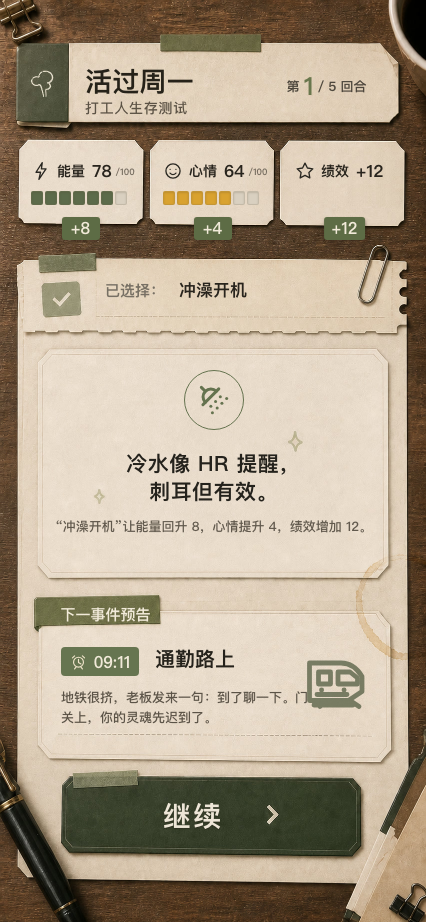
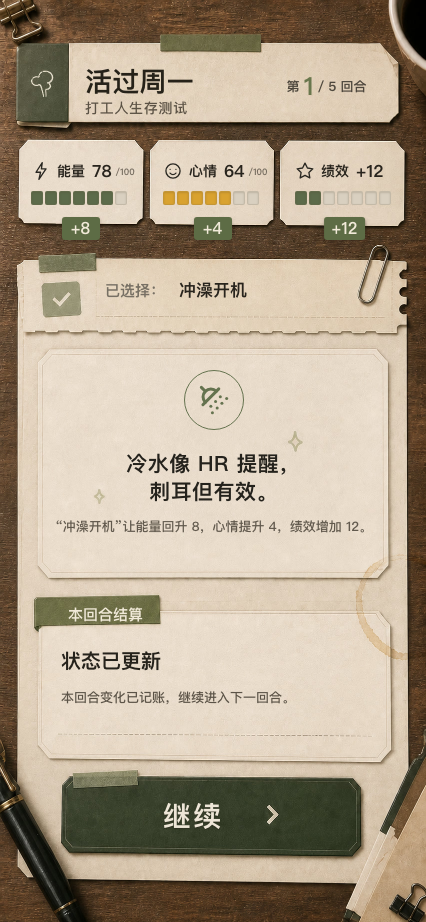
Restore feedback settlement and performance bars

Changed region(s): [[0.1221, 0.6377, 0.6714, 0.7896], [0.7019, 0.6985, 0.8545, 0.7896], [0.7019, 0.1822, 0.7629, 0.243]]

diff --git a/src/components/fixed-feedback/FixedFeedbackScreen.tsx b/src/components/fixed-feedback/FixedFeedbackScreen.tsx
@@ -3,12 +3,12 @@ import { formatPerformance, getStatSegmentCount } from "../../gameViewModels";
 import "../../styles/fixed-feedback.css";
 import { ChoiceIcon } from "../ChoiceIcon";
 import { ViewportAssist } from "../ViewportAssist";
-import type { ChoiceViewModel, EventViewModel, StatViewModel } from "../visualTypes";
+import type { ChoiceViewModel, StatViewModel } from "../visualTypes";
 import { SkinIcon, type SkinIconName } from "../skin/SkinIcon";
 
 export interface FixedFeedbackScreenProps {
   currentRound: number;
-  nextEvent?: EventViewModel;
+  isRunComplete: boolean;
   onContinue?: () => void;
   selectedChoice: ChoiceViewModel;
   stats: StatViewModel[];
@@ -75,7 +75,7 @@ function getFeedbackSummary(selectedChoice: ChoiceViewModel, stats: StatViewMode
 function FixedFeedbackStat({ stat }: { stat: StatViewModel }) {
   const isPerformance = stat.kind === "score";
   const displayValue = getDisplayValue(stat.value);
-  const fillCount = getStatSegmentCount(stat.kind, displayValue);
+  const fillCount = getStatSegmentCount(stat.kind, stat.value);
   const renderedValue = isPerformance ? formatPerformance(stat.value) : displayValue;
   const deltaTone = stat.delta === undefined
     ? ""
@@ -97,13 +97,11 @@ function FixedFeedbackStat({ stat }: { stat: StatViewModel }) {
         <span>{renderedValue}</span>
         {isPerformance ? null : <small>/100</small>}
       </div>
-      {isPerformance ? null : (
-        <div className="ms-fixed-feedback-stat__bar" aria-hidden="true">
-          {Array.from({ length: 7 }, (_, index) => (
-            <span className={index < fillCount ? "is-filled" : undefined} key={index} />
-          ))}
-        </div>
-      )}
+      <div className="ms-fixed-feedback-stat__bar" aria-hidden="true">
+        {Array.from({ length: 7 }, (_, index) => (
+          <span className={index < fillCount ? "is-filled" : undefined} key={index} />
+        ))}
+      </div>
       {stat.delta === undefined ? null : (
         <strong className={`ms-fixed-feedback-stat__delta${deltaTone}`} data-delta-kind={stat.kind}>
           {formatDelta(stat.delta)}
@@ -115,7 +113,7 @@ function FixedFeedbackStat({ stat }: { stat: StatViewModel }) {
 
 export function FixedFeedbackScreen({
   currentRound,
-  nextEvent,
+  isRunComplete,
   onContinue,
   selectedChoice,
   stats,
@@ -127,7 +125,7 @@ export function FixedFeedbackScreen({
   const feedbackLines = splitFeedback(selectedChoice.description);
   const feedbackSummary = getFeedbackSummary(selectedChoice, orderedStats);
   const isFinalRound = currentRound >= totalRounds;
-  const continueLabel = nextEvent ? "继续" : "查看结果";
+  const continueLabel = isRunComplete ? "查看结果" : "继续";
 
   return (
     <section className="ms-fixed-feedback-screen" aria-label="选择反馈">
@@ -173,20 +171,7 @@ export function FixedFeedbackScreen({
         <p aria-atomic="true" aria-live="polite" role="status">{feedbackSummary}</p>
       </article>
 
-      {nextEvent ? (
-        <section className="ms-fixed-feedback-next" aria-label="下一事件预告">
-          <strong className="ms-fixed-feedback-next__label">下一事件预告</strong>
-          <div className="ms-fixed-feedback-next__time">
-            <SkinIcon name="alarm" />
-            <time>{nextEvent.time}</time>
-          </div>
-          <h2>{nextEvent.title}</h2>
-          <p>{nextEvent.body}</p>
-          {nextEvent.visual ? (
-            <SkinIcon className="ms-fixed-feedback-next__visual" name={nextEvent.visual} />
-          ) : null}
-        </section>
-      ) : (
+      {isRunComplete ? (
         <section className="ms-fixed-feedback-next ms-fixed-feedback-next--complete" aria-label="本周结算">
           <strong className="ms-fixed-feedback-next__label">本周结算</strong>
           <div className="ms-fixed-feedback-next__time">
@@ -200,6 +185,12 @@ export function FixedFeedbackScreen({
               : "能量或心情已经见底，先查看本周生存结果。"}
           </p>
           <SkinIcon className="ms-fixed-feedback-next__visual" name="coffee" />
+        </section>
+      ) : (
+        <section className="ms-fixed-feedback-next ms-fixed-feedback-next--round" aria-label="本回合结算">
+          <strong className="ms-fixed-feedback-next__label">本回合结算</strong>
+          <h2>状态已更新</h2>
+          <p>本回合变化已记账，继续进入下一回合。</p>
         </section>
       )}
 

diff --git a/src/components/fixed-round/FixedRoundScreen.tsx b/src/components/fixed-round/FixedRoundScreen.tsx
@@ -38,7 +38,7 @@ interface FixedStatProps {
 function FixedStat({ stat }: FixedStatProps) {
   const isPerformance = stat.kind === "score";
   const displayValue = getDisplayValue(stat.value);
-  const fillCount = getStatSegmentCount(stat.kind, displayValue);
+  const fillCount = getStatSegmentCount(stat.kind, stat.value);
   const renderedValue = isPerformance ? formatPerformance(stat.value) : displayValue;
 
   return (
@@ -53,13 +53,11 @@ function FixedStat({ stat }: FixedStatProps) {
         <span className="ms-fixed-stat__value">{renderedValue}</span>
         {isPerformance ? null : <small>/100</small>}
       </div>
-      {isPerformance ? null : (
-        <div className="ms-fixed-stat__bar" aria-hidden="true">
-          {Array.from({ length: 7 }, (_, index) => (
-            <span className={index < fillCount ? "is-filled" : undefined} key={index} />
-          ))}
-        </div>
-      )}
+      <div className="ms-fixed-stat__bar" aria-hidden="true">
+        {Array.from({ length: 7 }, (_, index) => (
+          <span className={index < fillCount ? "is-filled" : undefined} key={index} />
+        ))}
+      </div>
     </article>
   );
 }

diff --git a/src/MondaySurvivalGame.tsx b/src/MondaySurvivalGame.tsx
@@ -89,7 +89,7 @@ function StaticMondayScreen({ screen }: { screen: "feedback" | "result" | "round
       <FixedScreenStage>
         <FixedFeedbackScreen
           currentRound={1}
-          nextEvent={toEventViewModel(mondayTurns[1], "train")}
+          isRunComplete={false}
           selectedChoice={previewSelectedChoice}
           stats={previewFeedbackStats}
           totalRounds={mondayTurns.length}
@@ -281,13 +281,13 @@ function PlayableMondaySurvivalGame({ onEvent }: MondaySurvivalGameProps) {
   }
 
   if (phase === "feedback" && feedback) {
-    const nextEvent = isMondayRunComplete(feedback.after) ? undefined : getEventViewModel(feedback.after.turnIndex);
+    const isRunComplete = isMondayRunComplete(feedback.after);
 
     return (
       <FixedScreenStage>
         <FixedFeedbackScreen
           currentRound={Math.min(feedback.before.turnIndex + 1, mondayTurns.length)}
-          nextEvent={nextEvent}
+          isRunComplete={isRunComplete}
           onContinue={continueRun}
           selectedChoice={feedback.selectedChoice}
           stats={toStatViewModels(feedback.after, getStatDelta(feedback.before, feedback.after))}

diff --git a/src/game.test.ts b/src/game.test.ts
@@ -139,9 +139,13 @@ describe("monday-survival", () => {
     }
   });
 
-  it("keeps bounded energy and mood visible as seven segments", () => {
+  it("keeps all three stats visible as seven segments without clamping performance text", () => {
     expect(getStatSegmentCount("energy", 78)).toBe(6);
     expect(getStatSegmentCount("mood", 64)).toBe(5);
+    expect(getStatSegmentCount("score", -18)).toBe(0);
+    expect(getStatSegmentCount("score", 0)).toBe(0);
+    expect(getStatSegmentCount("score", 12)).toBe(2);
+    expect(getStatSegmentCount("score", 130)).toBe(7);
     expect(formatPerformance(12)).toBe("+12");
     expect(formatPerformance(0)).toBe("0");
     expect(formatPerformance(-18)).toBe("-18");

diff --git a/src/styles/fixed-feedback.css b/src/styles/fixed-feedback.css
@@ -314,6 +314,17 @@
   max-width: 154px;
 }
 
+.ms-fixed-feedback-next.ms-fixed-feedback-next--round h2 {
+  top: 50px;
+  left: 27px;
+  max-width: 300px;
+}
+
+.ms-fixed-feedback-next.ms-fixed-feedback-next--round p {
+  top: 91px;
+  width: 300px;
+}
+
 .ms-fixed-feedback-next h2 {
   position: absolute;
   top: 48px;

diff --git a/README.md b/README.md
@@ -1,6 +1,6 @@
 # 今天你能熬过周一吗
 
-一个独立 H5 小游戏项目。玩家通过一组周一生存选择，在能量、心情和得分之间做取舍，尝试撑到下班。
+一个独立 H5 小游戏项目。玩家通过一组周一生存选择，在能量、心情和绩效之间做取舍，尝试撑到下班。
 
 默认入口 `/` 使用获批的 Fixed 三页视觉框架承载真实五回合流程。选择页只展示行动预览，反馈页再揭示结果文案和数值变化；结局、人格、海报内容仍由现有游戏数据和结算逻辑动态生成。
 
@@ -57,8 +57,9 @@ pnpm xhs:check
 
 这个检查会生成独立的 `dist-xhs/`，并使用 Playwright 隔离 Chromium 串行验证 375x667、390x844、426x922 三档视口：
 
-- 五回合选择、反馈、下一事件/结算和重开流程。
+- 五回合选择、反馈、本回合/本周结算和重开流程；反馈页不泄露下一事件。
 - 选择页不提前展示数值，反馈页才展示结果与 delta。
+- 选择页和反馈页的三项状态都保留七段条；绩效文字显示真实带符号值，不显示 `/100`。
 - 结果页生成 `853 x 1844` PNG 海报。
 - 小红书版本不出现下载图片或分享文案入口，只提示长按图片或系统截图。
 - 零外部请求、零运行错误、无横向溢出，且本轮 preview 服务退出。

diff --git a/DESIGN_NOTE.md b/DESIGN_NOTE.md
@@ -2,7 +2,7 @@
 
 ## 一句话定位
 
-一个关于周一生存的轻量选择小游戏。玩家在一天中的几个压力节点做选择，平衡能量、心情和得分，尝试撑到下班。
+一个关于周一生存的轻量选择小游戏。玩家在一天中的几个压力节点做选择，平衡能量、心情和绩效，尝试撑到下班。
 
 ## 目标体验
 
@@ -15,7 +15,7 @@
 
 1. 展示一个周一事件。
 2. 玩家从 3 个选项中选择一个。
-3. 选择改变得分、能量和心情。
+3. 选择改变绩效、能量和心情。
 4. 进入下一个事件。
 5. 所有事件结束，或能量/心情见底后结算。
 
@@ -44,7 +44,8 @@
 
 ## 当前已实现
 
-- 五回合选择、反馈、下一事件提示与动态结算。
+- 五回合选择、反馈与动态结算；普通反馈只显示“本回合结算”，不泄露下一事件。
+- 选择页和反馈页的绩效保留七段条，同时显示不截断的真实带符号数值。
 - “今日周一人格”与动态分享文案。
 - 浏览器端生成 `853 × 1844` PNG 结果海报。
 - 普通微信 H5 与小红书离线构建使用同一套 Fixed 游戏流程。

diff --git a/design-qa.md b/design-qa.md
@@ -4,8 +4,10 @@
 
 - 默认 `/`：使用 Fixed 选择、反馈和结果三页承载真实五回合流程。
 - 静态对照入口：`/?screen=round`、`/?screen=feedback`、`/?screen=result`。
-- 选择页展示 `choice.preview`；反馈页再展示 `choice.description` 和能量、心情、得分变化。
-- 选择/反馈页状态顺序为能量、心情、得分；结果页为得分、能量、心情。
+- 选择页展示 `choice.preview`；反馈页再展示 `choice.description` 和能量、心情、绩效变化。
+- 选择/反馈页状态顺序为能量、心情、绩效；三项都有七段条，绩效文字保留真实带符号值且不显示 `/100`。
+- 普通反馈页只显示紧凑的“本回合结算”，不得出现下一事件时间、标题、正文或插画；结束时显示“本周结算”。
+- 结果页状态顺序为绩效、能量、心情，海报与分享文案沿用同一份真实绩效值。
 - 结果页通过 Canvas 生成 `853 × 1844` PNG；小红书构建仅保留长按或系统截图提示，不提供下载和分享入口。
 
 ## 当前视觉基准

diff --git a/TEST_CHECKLIST.md b/TEST_CHECKLIST.md
@@ -15,10 +15,12 @@
 - [ ] 打开 `http://localhost:5180/`。
 - [ ] 页面标题显示“今天你能熬过周一吗”。
 - [ ] 第一回合显示“07:42 闹钟第三次响起”。
-- [ ] 能看到能量、心情、得分。
+- [ ] 能看到能量、心情、绩效，三项状态都显示七段条。
+- [ ] 绩效文字显示真实带符号值，不显示 `/100`；负值或 0 对应 0 个填充格，超过 100 时最多填满 7 格。
 - [ ] 选择页显示 `choice.preview`，不提前显示结果文案或数值变化。
 - [ ] 点击任意选项后先进入反馈页，反馈页显示 `choice.description` 和三项 delta。
-- [ ] 前四轮反馈显示下一事件预告，第五轮反馈显示本周结算。
+- [ ] 前四轮反馈只显示“本回合结算”，不出现下一事件的时间、标题、正文或插画。
+- [ ] 第五轮或提前结束的反馈显示“本周结算”。
 - [ ] 连续选择后能进入结算页。
 - [ ] 结算页能点击“再活一次周一”重开。
 
